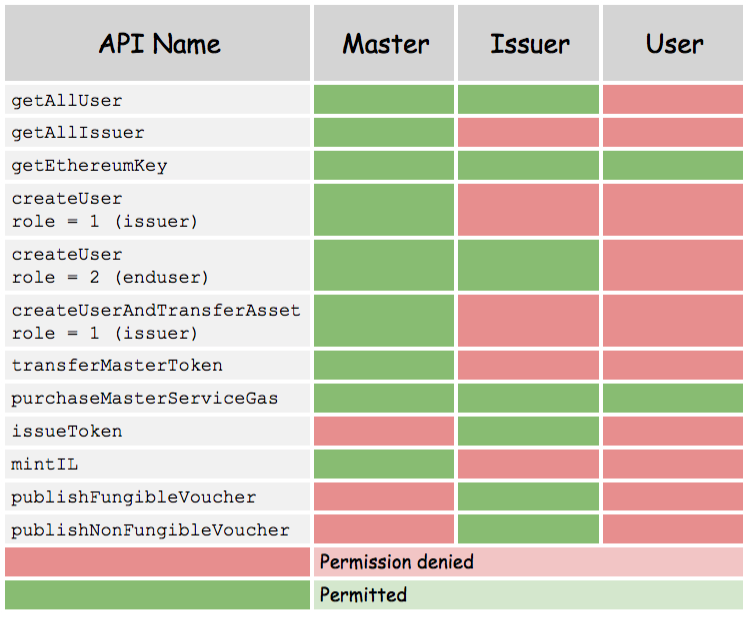
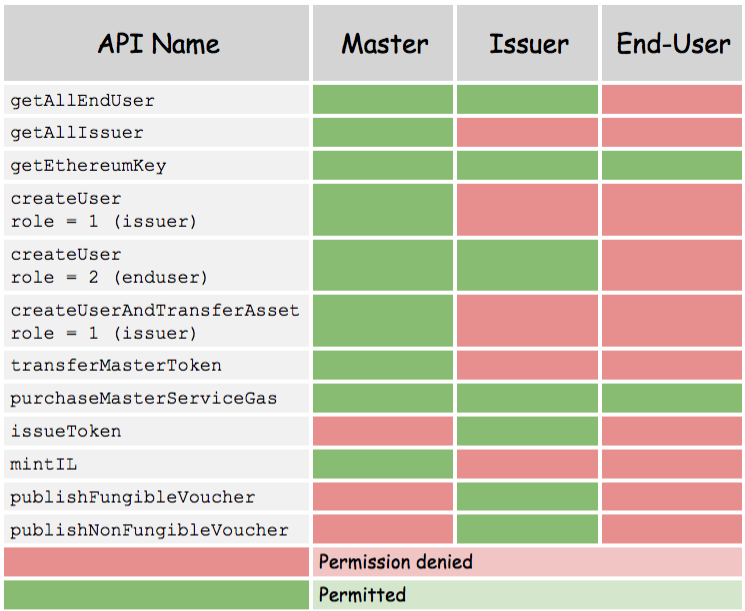
User rename

diff --git a/Workshop/README.md b/Workshop/README.md
@@ -122,7 +122,7 @@ This Quick-Start Workshop covers the essentials of FST Engine APIs.
   - [submitSignedTransaction](/Workshop/engine/submitSignedTransaction.md)
 
 
-## User
+## End-User
 ([Auth](#Auth) is required)
 - Query `READ`
   - [getEthereumKey](/Workshop/engine/getEthereumKey.md)

diff --git a/Workshop/explorer/getAllFungibleTokenTransferHistory.md b/Workshop/explorer/getAllFungibleTokenTransferHistory.md
@@ -1,5 +1,5 @@
 
-# Get all Fungible Token transfer history
+# Get all fungible Token transfer history
 
 ## GraphQL API
 

diff --git a/Workshop/explorer/getAllFungibleSmartVoucher.md b/Workshop/explorer/getAllFungibleSmartVoucher.md
@@ -1,5 +1,5 @@
 
-# Get all Fungible Voucher
+# Get all fungible Voucher
 
 ## GraphQL API
 
